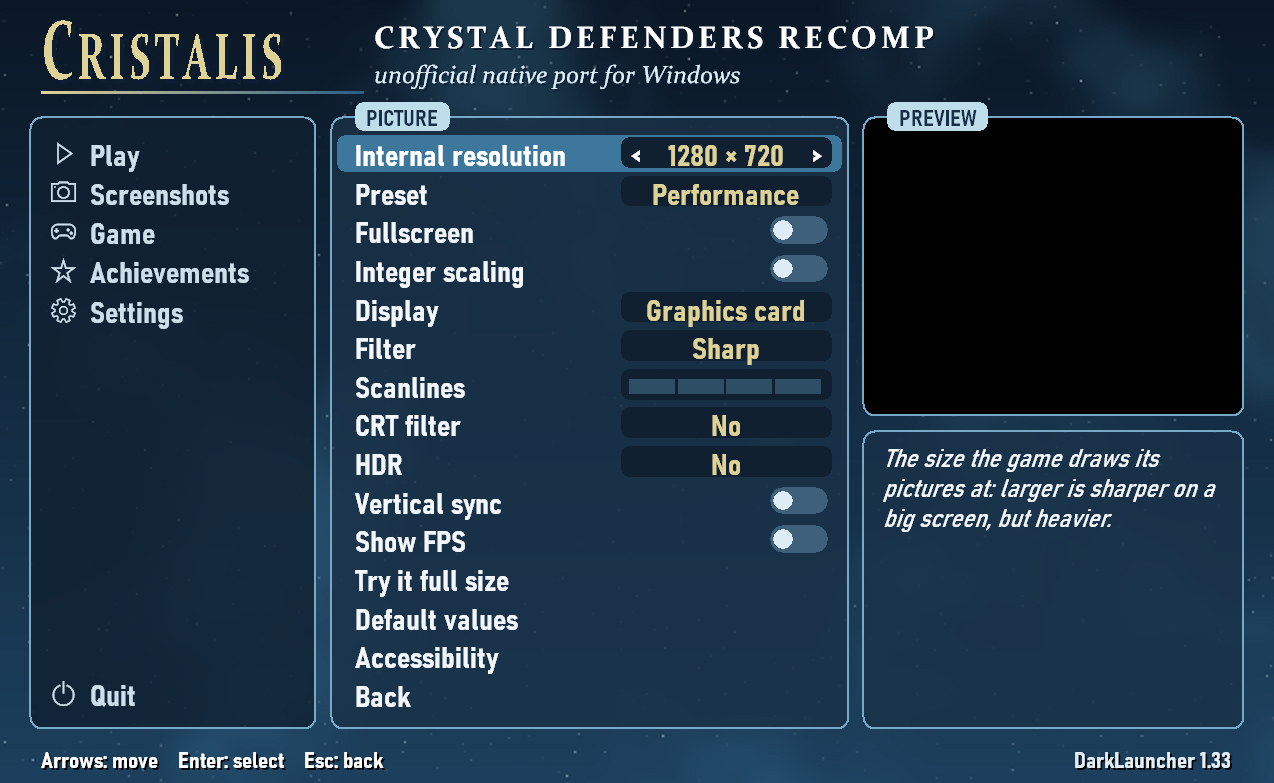
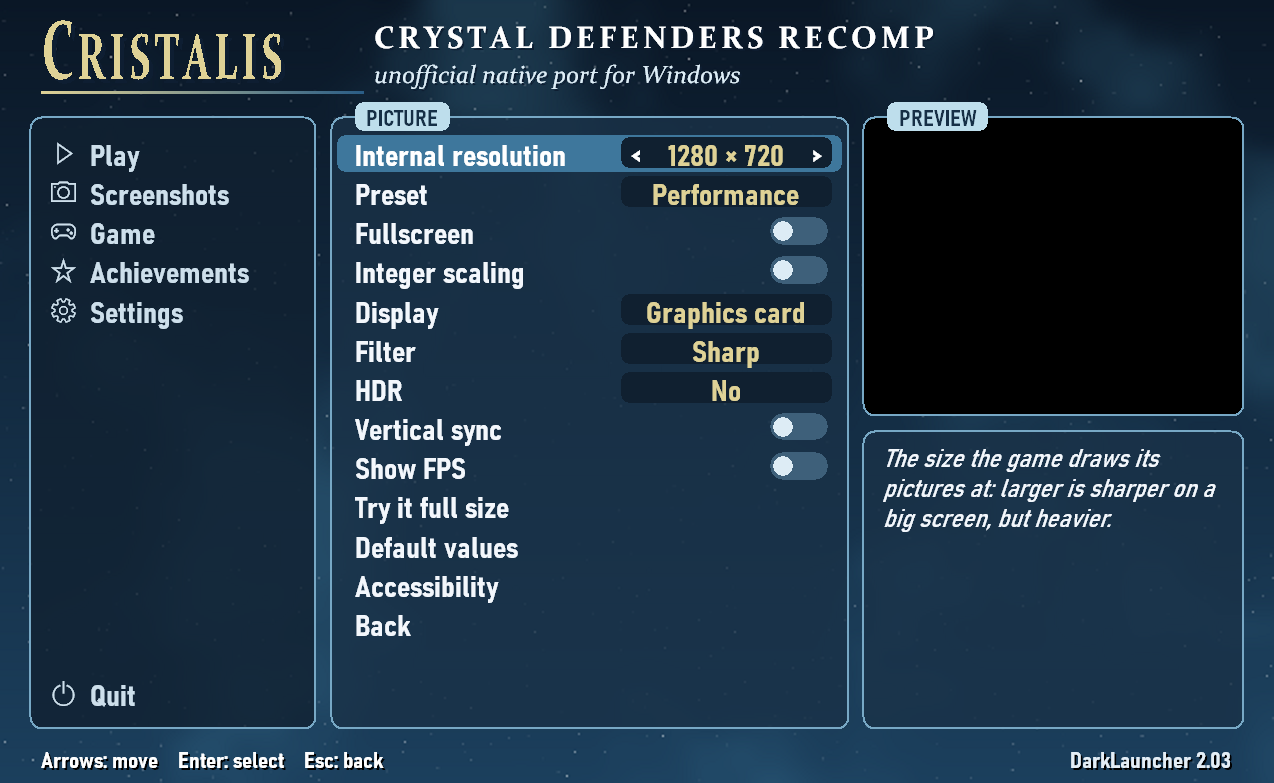
DarkLauncher 2.03: the CRT filter and the scanlines hidden
game.hide = DL_HIDE_CRT | DL_HIDE_SCANLINES: the Picture page no longer
offers the tube's look, which a 2009 HD game made for flat screens gains
little from (the user's choice). DarkLauncher does not apply what is hidden
and keeps the values in the settings file. The six READMEs and the picture of
the Picture page follow. Windows and Linux: audit 0, GPU check ok, 60
pictures a second.

diff --git a/kit/launcher/dl_menu.c b/kit/launcher/dl_menu.c
@@ -110,12 +110,15 @@ static const DlRow langs_rows[] = {
 typedef struct { int integer_scale, smooth, scanlines, crt; } Preset; // smooth: 0 sharp, 1 smooth, 2 smooth edges
 static const Preset presets[4] = {{1, 0, 0, 0}, {0, 2, 0, 0}, {0, 1, 2, 2}, {0, 0, 0, 0}}; // original, large, CRT, performance
 static const int preset_texts[4] = {T_PRE_ORIGINAL, T_PRE_LARGE, T_PRE_CRT, T_PRE_FAST};
+// the presets offered, in order (without "CRT" when the game hides the CRT filter); preset_pick is one of them
+static int preset_ids[4] = {0, 1, 2, 3}, preset_n = 4;
 static int preset_pick; // the last preset chosen (< > go on from it)
 static int preset_match(void) { // -1: none
-  for (int k = 0; k < 4; k++) {
-    const Preset *p = &presets[k];
-    if (dl_cfg.integer_scale == p->integer_scale && dl_cfg.smooth == p->smooth && dl_cfg.scanlines == p->scanlines && dl_cfg.crt == p->crt &&
-        (k != 3 || !dl_cfg.ahead)) // Performance: no run-ahead either
+  bool no_crt = dl_game->hide & DL_HIDE_CRT, no_scan = dl_game->hide & DL_HIDE_SCANLINES; // a hidden row is left aside
+  for (int k = 0; k < preset_n; k++) {
+    const Preset *p = &presets[preset_ids[k]];
+    if (dl_cfg.integer_scale == p->integer_scale && dl_cfg.smooth == p->smooth && (no_scan || dl_cfg.scanlines == p->scanlines) &&
+        (no_crt || dl_cfg.crt == p->crt) && (preset_ids[k] != 3 || !dl_cfg.ahead)) // Performance: no run-ahead either
       return k;
   }
   return -1;
@@ -125,18 +128,19 @@ static const wchar_t *preset_show(int v) {
   int m = preset_match();
   if (m < 0) return TX(T_PRE_CUSTOM);
   preset_pick = m;
-  return TX(preset_texts[m]);
+  return TX(preset_texts[preset_ids[m]]);
 }
 static void preset_changed(void) {
-  const Preset *p = &presets[preset_pick];
+  int id = preset_ids[preset_pick < 0 || preset_pick >= preset_n ? 0 : preset_pick];
+  const Preset *p = &presets[id];
   dl_cfg.integer_scale = p->integer_scale;
   dl_cfg.smooth = p->smooth;
-  dl_cfg.scanlines = p->scanlines;
-  dl_cfg.crt = p->crt;
-  if (preset_pick == 3) dl_cfg.ahead = 0;
+  if (!(dl_game->hide & DL_HIDE_SCANLINES)) dl_cfg.scanlines = p->scanlines;
+  if (!(dl_game->hide & DL_HIDE_CRT)) dl_cfg.crt = p->crt;
+  if (id == 3) dl_cfg.ahead = 0;
   dl_dirty = true;
 }
-static const DlRow image_rows[] = {
+static DlRow image_rows[] = { // not const: the presets' count is set at start (DlGame.hide)
     {DL_CHOICE, dl_texts[T_PRESET], dl_texts[T_H_PRESET], &preset_pick, 3, NULL, preset_show, preset_changed},
     {DL_SWITCH, dl_texts[T_FULL], dl_texts[T_H_FULL], &dl_cfg.fullscreen, 1, NULL, NULL, full_changed},
     {DL_SWITCH, dl_texts[T_INT], dl_texts[T_H_INT], &dl_cfg.integer_scale, 1},
@@ -274,7 +278,7 @@ static const DlRow welcome_ctrl_rows[] = {
     {.kind = DL_PAGE, .label = dl_texts[T_PAD], .help = dl_texts[T_H_PAD], .page = PG_PAD},
     {DL_ACTION, dl_texts[T_W_NEXT], dl_texts[T_H_W_CTRL], NULL, 0, NULL, NULL, welcome_screen},
 };
-static const DlRow welcome_screen_rows[] = {
+static DlRow welcome_screen_rows[] = { // not const, as image_rows
     {DL_SWITCH, dl_texts[T_FULL], dl_texts[T_H_FULL], &dl_cfg.fullscreen, 1, NULL, NULL, full_changed},
     {DL_CHOICE, dl_texts[T_PRESET], dl_texts[T_H_PRESET], &preset_pick, 3, NULL, preset_show, preset_changed},
     {DL_ACTION, dl_texts[T_W_PLAY], dl_texts[T_H_W_PLAY], NULL, 0, NULL, NULL, dl_play},
@@ -316,7 +320,23 @@ void dl_menu_init(void) {
   if (dl_game->pad_layout || dl_game->pad_menu) pad_rows[sizeof pad_rows / sizeof pad_rows[0] - 1].help = dl_texts[T_PH_DEFAULTS_GAME];
   if (dl_game->pad_menu == DL_MENU_HOLD) padfn_rows[4].help = dl_texts[T_PH_MENU_HOLD]; // FN_MENU's row
   dl_page(dl_texts[T_TAB_LANGS], langs_rows, 1);
+  // the rows the game does not offer (DlGame.hide), and the "CRT" preset with the CRT filter
+  if (dl_game->hide & DL_HIDE_CRT) {
+    preset_n = 0;
+    for (int k = 0; k < 4; k++)
+      if (k != 2) preset_ids[preset_n++] = k;
+  }
+  image_rows[0].max = welcome_screen_rows[1].max = preset_n - 1;
+  if (dl_game->hide & DL_HIDE_CRT) image_rows[0].help = welcome_screen_rows[1].help = dl_texts[T_H_PRESET_NOCRT];
   dl_page(dl_texts[T_TAB_IMAGE], image_rows, sizeof image_rows / sizeof image_rows[0]);
+  for (int k = dl_pages[DL_PAGE_IMAGE].n - 1; k >= 0; k--) {
+    const int *v = dl_pages[DL_PAGE_IMAGE].rows[k]->value;
+    if ((v == &dl_cfg.crt && (dl_game->hide & DL_HIDE_CRT)) || (v == &dl_cfg.scanlines && (dl_game->hide & DL_HIDE_SCANLINES))) {
+      DlPage *p = &dl_pages[DL_PAGE_IMAGE];
+      memmove(&p->rows[k], &p->rows[k + 1], sizeof p->rows[0] * (size_t)(p->n - k - 1));
+      p->n--;
+    }
+  }
   dl_page(dl_texts[T_TAB_SOUND], sound_rows, sizeof sound_rows / sizeof sound_rows[0]);
   dl_page(dl_texts[T_TAB_CTRL], ctrl_rows, sizeof ctrl_rows / sizeof ctrl_rows[0]);
   if (dl_game->rumble) dl_page_insert(PG_CTRL, 3, &rumble_row); // after the three pages of assignments

diff --git a/kit/launcher/dl_text.c b/kit/launcher/dl_text.c
@@ -455,6 +455,14 @@ const wchar_t *const dl_texts[T_COUNT][DL_LANGS] = {
                     L"Muda várias opções de imagem de uma vez. \u201cOriginal\u201d: pixels nítidos, em escala inteira. \u201cGrande e nítido\u201d: a janela toda, bordas suaves. \u201cTV de tubo\u201d: suave, scanlines e tela curva. \u201cDesempenho\u201d: nada pesado.",
                     L"Ändert mehrere Bildeinstellungen auf einmal. \u201eOriginal\u201c: scharfe Pixel, ganzzahlig skaliert. \u201eGroß und scharf\u201c: das ganze Fenster, glatte Kanten. \u201eRöhrenfernseher\u201c: weich, Scanlines und gewölbter Bildschirm. \u201eLeistung\u201c: nichts Aufwendiges.",
                     L"Cambia più impostazioni dell'immagine in una volta. «Originale»: pixel nitidi, a scala intera. «Grande e nitido»: tutta la finestra, bordi morbidi. «TV a tubo»: morbido, scanline e schermo curvo. «Prestazioni»: niente di pesante."},
+    // the same without the "CRT" preset (DL_HIDE_CRT)
+    [T_H_PRESET_NOCRT] = {L"画像の設定をまとめて変えます。「オリジナル」：整数倍で、くっきりしたドット。「大きくくっきり」：画面いっぱいに、輪郭補正つき。「軽さ重視」：重い処理をすべて切ります。",
+                          L"Change plusieurs réglages de l'image d'un coup. « Fidèle à l'original » : les pixels nets, à l'échelle entière. « Grand et net » : toute la fenêtre, contours lissés. « Performances » : rien de coûteux.",
+                          L"Changes several picture settings at once. \u201cOriginal\u201d: crisp pixels, at an integer scale. \u201cLarge and sharp\u201d: the whole window, smooth edges. \u201cPerformance\u201d: nothing costly.",
+                          L"Cambia varios ajustes de imagen a la vez. «Original»: píxeles nítidos, a escala entera. «Grande y nítido»: toda la ventana, bordes suaves. «Rendimiento»: nada costoso.",
+                          L"Muda várias opções de imagem de uma vez. \u201cOriginal\u201d: pixels nítidos, em escala inteira. \u201cGrande e nítido\u201d: a janela toda, bordas suaves. \u201cDesempenho\u201d: nada pesado.",
+                          L"Ändert mehrere Bildeinstellungen auf einmal. \u201eOriginal\u201c: scharfe Pixel, ganzzahlig skaliert. \u201eGroß und scharf\u201c: das ganze Fenster, glatte Kanten. \u201eLeistung\u201c: nichts Aufwendiges.",
+                          L"Cambia più impostazioni dell'immagine in una volta. «Originale»: pixel nitidi, a scala intera. «Grande e nitido»: tutta la finestra, bordi morbidi. «Prestazioni»: niente di pesante."},
     [T_PRE_CUSTOM] = {L"カスタム", L"Personnalisé", L"Custom", L"Personalizado", L"Personalizado", L"Eigene", L"Personalizzato"},
     [T_PRE_ORIGINAL] = {L"オリジナル", L"Fidèle à l'original", L"Original", L"Original", L"Original", L"Original", L"Originale"},
     [T_PRE_LARGE] = {L"大きくくっきり", L"Grand et net", L"Large and sharp", L"Grande y nítido", L"Grande e nítido", L"Groß und scharf", L"Grande e nitido"},

diff --git a/kit/launcher/dl.h b/kit/launcher/dl.h
@@ -10,7 +10,7 @@
 
 // The version of DarkLauncher (CHANGELOG.md): 1.01, 1.02... for improvements; the first number moves
 // (2.0) when a game has to change its code for it.
-#define DL_VERSION "2.02"
+#define DL_VERSION "2.03"
 #include <stdbool.h>
 #include <stddef.h>
 #include <stdint.h>
@@ -43,6 +43,9 @@ enum { DL_PAD_SNES, DL_PAD_XBOX };
 // Select; View held for a moment (a short press stays the game's Select); no button (Esc on the
 // keyboard; the player may still choose one on the Controls page).
 enum { DL_MENU_VIEW, DL_MENU_HOLD, DL_MENU_NONE };
+// Rows of the Picture page a game does not offer (DlGame.hide): the CRT filter, the scanlines (an HD
+// game made for flat screens...).
+enum { DL_HIDE_CRT = 1 << 0, DL_HIDE_SCANLINES = 1 << 1 };
 
 // A picture laid over the game's (high-resolution text, a panel...): w x h pixels 0xAARRGGBB, colours
 // already multiplied by their opacity, at x,y in the window.
@@ -199,6 +202,11 @@ typedef struct DlGame {
   // 1 << DL_LANG_*, or DL_LANGS_ALL. 0: the first six (jp to de), the languages before Italian. The
   // Languages page offers only these, and dl_lang() never returns another.
   unsigned langs;
+
+  // DL_HIDE_*: rows of the Picture page left out (0: all shown). What they set is not applied then (the
+  // picture is drawn without it), and the presets leave it aside ("CRT" goes with the CRT filter); the
+  // settings file keeps the player's value.
+  unsigned hide;
 } DlGame;
 
 // ---- pages: lists of rows, drawn and handled by DarkLauncher

diff --git a/kit/launcher/dl_int.h b/kit/launcher/dl_int.h
@@ -268,7 +268,7 @@ enum {
   T_H_SETTINGS, T_TAB_SETTINGS,
   T_NET, T_H_NET, T_TAB_NET, T_DISCORD, T_H_DISCORD, T_DS_PLAYING, T_DS_MENUS, T_UPDATES, T_H_UPDATES, T_UPD_NEW, T_UPD_NONE, T_UPD_OPEN, T_H_UPD_OPEN,
   T_TAB_NEWS, T_H_NEWS, T_TAB_WELCOME, T_W_NEXT, T_H_W_LANG, T_H_W_CTRL, T_W_PLAY, T_H_W_PLAY,
-  T_PRESET, T_H_PRESET, T_PRE_CUSTOM, T_PRE_ORIGINAL, T_PRE_LARGE, T_PRE_CRT, T_PRE_FAST,
+  T_PRESET, T_H_PRESET, T_H_PRESET_NOCRT, T_PRE_CUSTOM, T_PRE_ORIGINAL, T_PRE_LARGE, T_PRE_CRT, T_PRE_FAST,
   T_BACKUPS, T_H_BACKUPS, T_TAB_BACKUPS, T_BKH, T_BKH_GAME, T_BKH_CONFIRM, T_BK_NONE, T_BK_SESSION, T_BK_RESTORED,
   T_COUNT
 };
@@ -333,5 +333,9 @@ const void *ui_theme_sound(int kind, int volume);
 #define SIDE_X0 13.0
 #define SIDE_X1 153.0
 #define PANEL_BOTTOM 372.0
+
+// The CRT filter and the scanlines as they are applied: 0 when the game hides their row (DlGame.hide).
+int dl_crt(void);
+int dl_scanlines(void);
 
 #endif

diff --git a/kit/launcher/dl_app.c b/kit/launcher/dl_app.c
@@ -385,14 +385,17 @@ void dl_fit(int cw, int ch, bool integer, int *w, int *h) {
   *h = sh;
 }
 
+int dl_crt(void) { return dl_game && (dl_game->hide & DL_HIDE_CRT) ? 0 : dl_cfg.crt; }
+int dl_scanlines(void) { return dl_game && (dl_game->hide & DL_HIDE_SCANLINES) ? 0 : dl_cfg.scanlines; }
+
 // The game's picture into a rectangle, with the filter and the scanlines; the frame rate on top.
 void dl_blit(HDC dc, int x, int y, int w, int h) {
   if (w <= 0 || h <= 0 || !dl_pic) return;
   int gw = dl_pic_w, gh = dl_pic_h, sh = gh;
   const u32 *src = dl_pic;
-  if (dl_cfg.scanlines) {
+  if (dl_scanlines()) {
     // each line three times, the third one darker
-    u32 keep = (u32)(256 - dl_cfg.scanlines * 48);
+    u32 keep = (u32)(256 - dl_scanlines() * 48);
     for (int yy = 0; yy < gh; yy++) {
       const u32 *row = &dl_pic[(size_t)yy * gw];
       u32 *o = &scan_buf[(size_t)yy * 3 * gw];

diff --git a/kit/launcher/dl_gpu.c b/kit/launcher/dl_gpu.c
@@ -511,7 +511,7 @@ static void gpu_quad(int x, int y, int w, int h, ID3D11PixelShader *ps, int whic
 // its own constants and textures first (step of steps: smooth motion).
 static void gpu_game_quad(int x, int y, int w, int h, int step, int steps) {
   GpuConsts c = {{(float)dl_pic_w, (float)dl_pic_h}, {(float)w, (float)h}, {(float)x, (float)y},
-                 (float)dl_cfg.smooth, dl_cfg.crt ? 0.0f : (float)dl_cfg.scanlines, (float)dl_cfg.crt, hdr_chain ? hdr_white : 0,
+                 (float)dl_cfg.smooth, dl_crt() ? 0.0f : (float)dl_scanlines(), (float)dl_crt(), hdr_chain ? hdr_white : 0,
                  {(float)dl_pic_w / dl_pic_scale, (float)dl_pic_h / dl_pic_scale}};
   c.cvd = (float)dl_cfg.cvd;
   if (dl_game->gpu_frame) dl_game->gpu_frame(c.game, step, steps);

diff --git a/kit/launcher/linux/dl_gl.c b/kit/launcher/linux/dl_gl.c
@@ -416,8 +416,8 @@ static void game_quad(int x, int y, int w, int h, int step, int steps) {
   set2(gl.ps, "origin", (float)x, (float)y);
   set2(gl.ps, "srcSize", (float)dl_pic_w / dl_pic_scale, (float)dl_pic_h / dl_pic_scale);
   set1(gl.ps, "filt", (float)dl_cfg.smooth);
-  set1(gl.ps, "scan", dl_cfg.crt ? 0.0f : (float)dl_cfg.scanlines);
-  set1(gl.ps, "crt", (float)dl_cfg.crt);
+  set1(gl.ps, "scan", dl_crt() ? 0.0f : (float)dl_scanlines());
+  set1(gl.ps, "crt", (float)dl_crt());
   set1(gl.ps, "hdr", 0);
   set1(gl.ps, "cvd", (float)dl_cfg.cvd);
   GLint at = glGetUniformLocation(gl.ps, "game");

diff --git a/recomp/runtime/darklauncher.cpp b/recomp/runtime/darklauncher.cpp
@@ -528,6 +528,8 @@ int DarkLauncherMain(int argc, char* argv[], void (*runGuest)())
     game.pad_layout = DL_PAD_XBOX;
     game.pad_menu = DL_MENU_HOLD;
     game.rumble = true; // DarkLauncher's Vibration switch, and dl_rumble to every kind of controller
+    // a 2009 HD game made for flat screens: the tube's look is not offered (the setting is kept)
+    game.hide = DL_HIDE_CRT | DL_HIDE_SCANLINES;
     // --no-theme: DarkLauncher's own look (to compare)
     bool themed = true;
     for (int i = 1; i < argc; i++)

diff --git a/README.ja.md b/README.ja.md
@@ -64,8 +64,7 @@ Windows 10 または 11（64 ビット）、Direct3D 11 対応のグラフィッ
 - **ゲームの 6 つの言語**（フランス語、英語、ドイツ語、スペイン語、イタリア語、日本語）を設定で
   選べます。ゲームは新しい言語で再起動します。
 - **グラフィックカードによる表示**：ゲームを 1280×720、1920×1080、2560×1440、3840×2160 で描画し、
-  どのウィンドウサイズでもシャープ、なめらか、または輪郭をなめらかにして表示します。スキャンライン、
-  平面または曲面のブラウン管フィルター、HDR（Windows）。
+  どのウィンドウサイズでもシャープ、なめらか、または輪郭をなめらかにして表示します。HDR（Windows）。
 - **パソコンに保存される実績**：ゲームの上に通知が出て、設定画面に一覧があります。
 - **本体のオフライン時の動作（任意）**：「Xbox LIVE に接続されていません」の表示と保存先デバイスの
   選択は、初期状態ではオフで、オンにできます。
@@ -93,8 +92,7 @@ Windows 10 または 11（64 ビット）、Direct3D 11 対応のグラフィッ
 - **設定**：ほかの項目へ進むページです。
   - **言語**：ゲームの言語（その言語でゲームが再起動します）とメニューの言語。
   - **画面**：内部解像度（1280×720、1920×1080、2560×1440、3840×2160）、プリセット、フルスクリーン、
-    整数倍表示、グラフィックカードまたはソフトウェアによる表示、フィルター、スキャンライン、
-    ブラウン管フィルター、HDR、垂直同期、フレームレート表示、「大きく表示して確認」、
+    整数倍表示、グラフィックカードまたはソフトウェアによる表示、フィルター、HDR、垂直同期、フレームレート表示、「大きく表示して確認」、
     アクセシビリティ（ハイコントラスト、色覚フィルター、動きを減らす、大きなヘルプ）。
   - **サウンド**：音量とメニューの効果音。
   - **操作**：ゲームのキーボードのキーとコントローラーのボタン、振動、ショートカット。

diff --git a/README.de.md b/README.de.md
@@ -70,8 +70,7 @@ wenn nicht.
 - **Die sechs Sprachen des Spiels** (Französisch, Englisch, Deutsch, Spanisch, Italienisch,
   Japanisch), in den Einstellungen gewählt; das Spiel startet in der neuen Sprache neu.
 - **Anzeige über die Grafikkarte**: das Spiel in 1280×720, 1920×1080, 2560×1440 oder 3840×2160
-  gezeichnet, dann scharf, geglättet oder mit weichen Kanten in jeder Fenstergröße; Scanlines, ein
-  flacher oder gewölbter Röhren-Filter, HDR (Windows).
+  gezeichnet, dann scharf, geglättet oder mit weichen Kanten in jeder Fenstergröße; HDR (Windows).
 - **Erfolge auf dem Computer gespeichert**, mit einer Meldung über dem Spiel und einer Liste in den
   Einstellungen.
 - **Das Offline-Verhalten der Konsole auf Wunsch**: der Hinweis „Nicht mit Xbox LIVE verbunden" und
@@ -101,8 +100,7 @@ die Seite des gewählten Eintrags erscheint daneben. Enter oder Rechts öffnet s
 - **Einstellungen**: eine Seite, die zum Rest führt.
   - **Sprachen**: die Sprache des Spiels (das Spiel startet in ihr neu) und die des Menüs.
   - **Bild**: die interne Auflösung (1280×720, 1920×1080, 2560×1440 oder 3840×2160), eine Voreinstellung,
-    Vollbild, Ganzzahl-Skalierung, Anzeige über die Grafikkarte oder in Software, Filter, Scanlines,
-    Röhren-Filter, HDR, vertikale Synchronisation, die Anzeige der Bildrate, „Groß ausprobieren" und
+    Vollbild, Ganzzahl-Skalierung, Anzeige über die Grafikkarte oder in Software, Filter, HDR, vertikale Synchronisation, die Anzeige der Bildrate, „Groß ausprobieren" und
     Barrierefreiheit (hoher Kontrast, Farbenblind-Filter, weniger Bewegung, große Hilfetexte).
   - **Ton**: die Lautstärke und die Töne des Menüs.
   - **Steuerung**: die Tastatur-Tasten und Controller-Knöpfe des Spiels, die Vibration und die

diff --git a/README.it.md b/README.it.md
@@ -67,8 +67,7 @@ segnala se non lo è.
 - **Le sei lingue del gioco** (francese, inglese, tedesco, spagnolo, italiano, giapponese), scelte
   nelle impostazioni; il gioco si riavvia nella nuova lingua.
 - **Immagine tramite la scheda grafica**: il gioco disegnato a 1280×720, 1920×1080, 2560×1440 o
-  3840×2160, poi nitido, sfumato o con bordi ammorbiditi a qualsiasi dimensione della finestra;
-  scanline, un filtro CRT piatto o curvo, HDR (Windows).
+  3840×2160, poi nitido, sfumato o con bordi ammorbiditi a qualsiasi dimensione della finestra; HDR (Windows).
 - **Obiettivi salvati sul computer**, con un avviso sopra il gioco e un elenco nelle impostazioni.
 - **Il comportamento offline della console, su richiesta**: l'avviso «Non connesso a Xbox LIVE» e
   la scelta del dispositivo di memorizzazione sono disattivati per impostazione predefinita e si
@@ -100,7 +99,7 @@ la pagina della voce selezionata appare accanto. Invio o Destra vi entra, Esc to
   - **Lingue**: la lingua del gioco (il gioco si riavvia in essa) e quella del menu.
   - **Immagine**: la risoluzione interna (1280×720, 1920×1080, 2560×1440 o 3840×2160), una
     preimpostazione, schermo intero, scala intera, immagine tramite la scheda grafica o via
-    software, filtro, scanline, filtro CRT, HDR, sincronizzazione verticale, la visualizzazione dei
+    software, filtro, HDR, sincronizzazione verticale, la visualizzazione dei
     fotogrammi al secondo, «Prova in grande» e accessibilità (contrasto elevato, filtro per
     daltonici, meno movimento, aiuto in grande).
   - **Audio**: il volume e i suoni del menu.

diff --git a/README.es.md b/README.es.md
@@ -66,8 +66,7 @@ es.
 - **Los seis idiomas del juego** (francés, inglés, alemán, español, italiano, japonés), elegidos en
   los ajustes; el juego se reinicia en el nuevo idioma.
 - **Imagen a través de la tarjeta gráfica**: el juego dibujado a 1280×720, 1920×1080, 2560×1440 o
-  3840×2160, y luego nítido, suavizado o con bordes suavizados en cualquier tamaño de ventana;
-  scanlines, un filtro CRT plano o curvo, HDR (Windows).
+  3840×2160, y luego nítido, suavizado o con bordes suavizados en cualquier tamaño de ventana; HDR (Windows).
 - **Logros guardados en el ordenador**, con un aviso sobre el juego y una lista en los ajustes.
 - **El comportamiento sin conexión de la consola, si se desea**: el aviso «No conectado a Xbox LIVE»
   y la elección del dispositivo de almacenamiento están desactivados por defecto y se pueden activar.
@@ -97,7 +96,7 @@ página de la entrada seleccionada se muestra a su lado. Intro o Derecha entra e
   - **Idiomas**: el idioma del juego (el juego se reinicia en él) y el del menú.
   - **Imagen**: la resolución interna (1280×720, 1920×1080, 2560×1440 o 3840×2160), un preajuste,
     pantalla completa, escala entera, imagen por la tarjeta gráfica o por software, filtro,
-    scanlines, filtro CRT, HDR, sincronización vertical, mostrar los fotogramas por segundo,
+    HDR, sincronización vertical, mostrar los fotogramas por segundo,
     «Probar en grande» y accesibilidad (alto contraste, filtro para daltónicos, menos movimiento,
     ayuda en grande).
   - **Sonido**: el volumen y los sonidos del menú.
